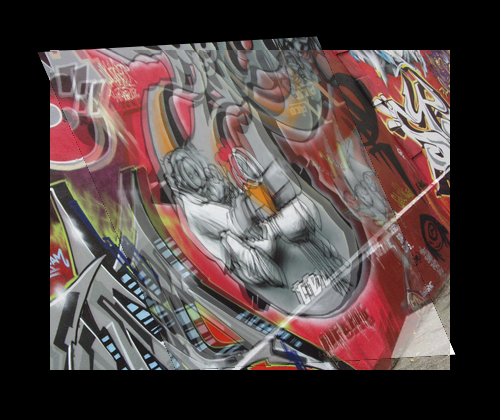
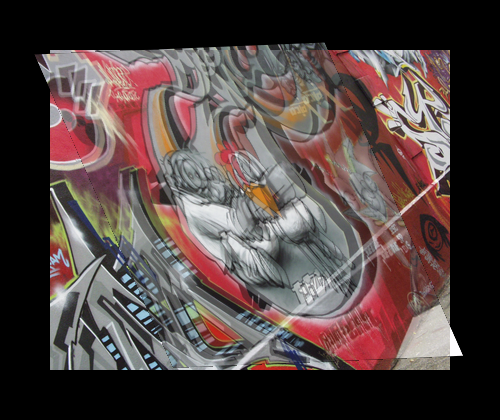
adjust threshold for RANSAC

Changed region(s): [[0.06, 0.0619, 0.93, 0.8976], [0.15, 0.3714, 0.18, 0.4024]]

diff --git a/image_alignment.py b/image_alignment.py
@@ -254,7 +254,7 @@ def compute_affine_xform(keyP1, keyP2, matches):
         affMartix = np.linalg.lstsq(vector1, vector2, rcond=None)[0]
         dist = np.linalg.norm(pos1.dot(affMartix) - pos2, axis=1)
         var = np.var(dist)
-        thres = np.sqrt(var * 12.59)
+        thres = np.sqrt(var)
         inner_labels = dist < thres
         if inner_labels.sum() > max_in:
             outlier_labels = ~inner_labels
